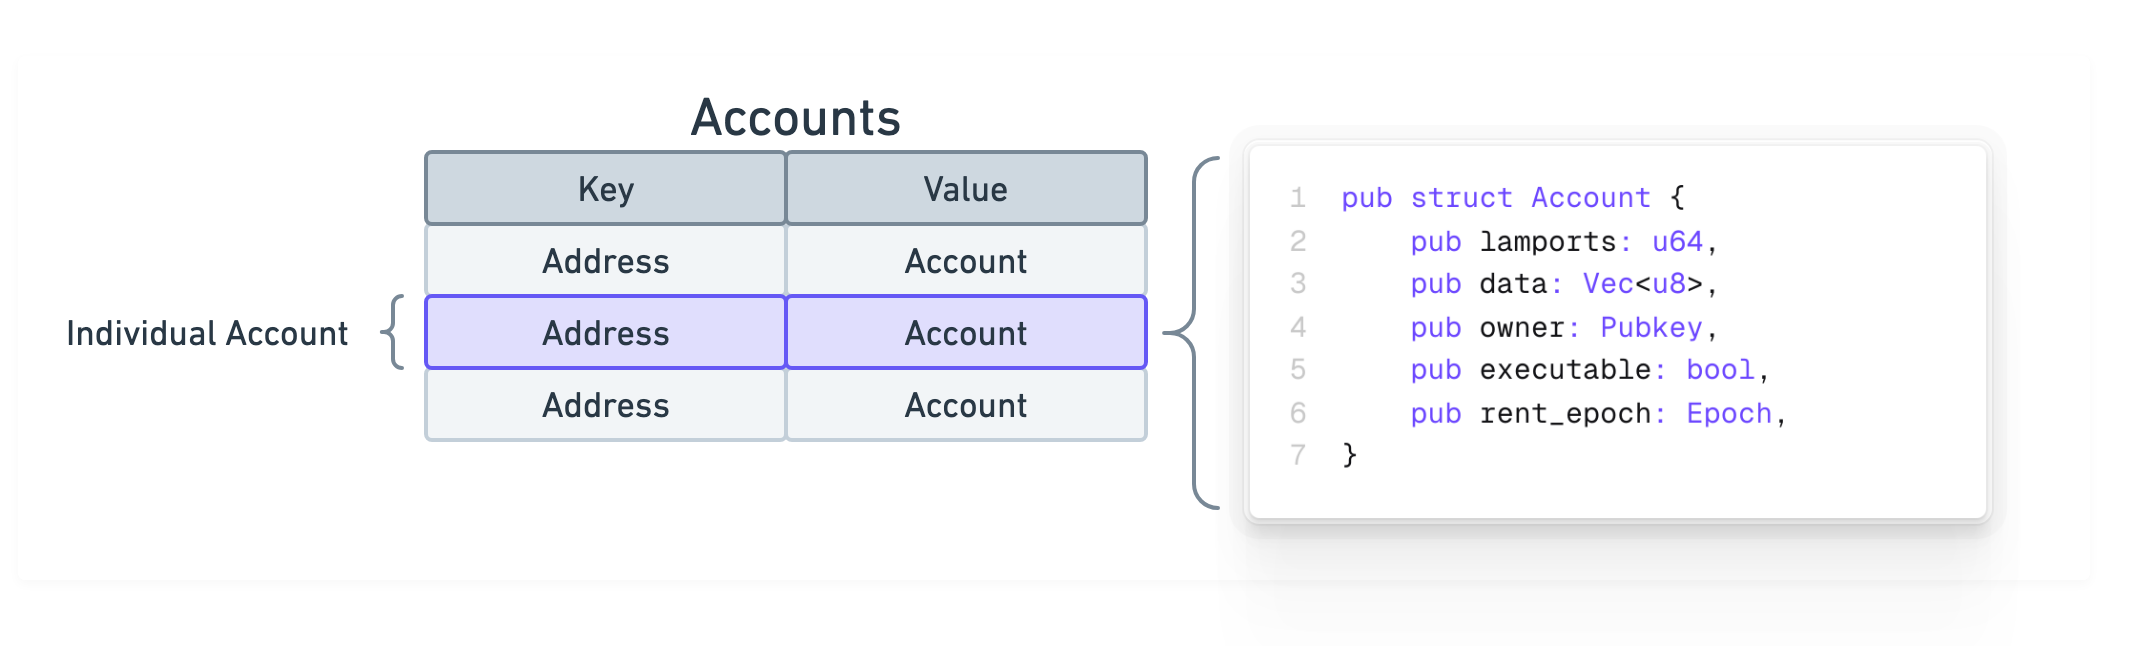
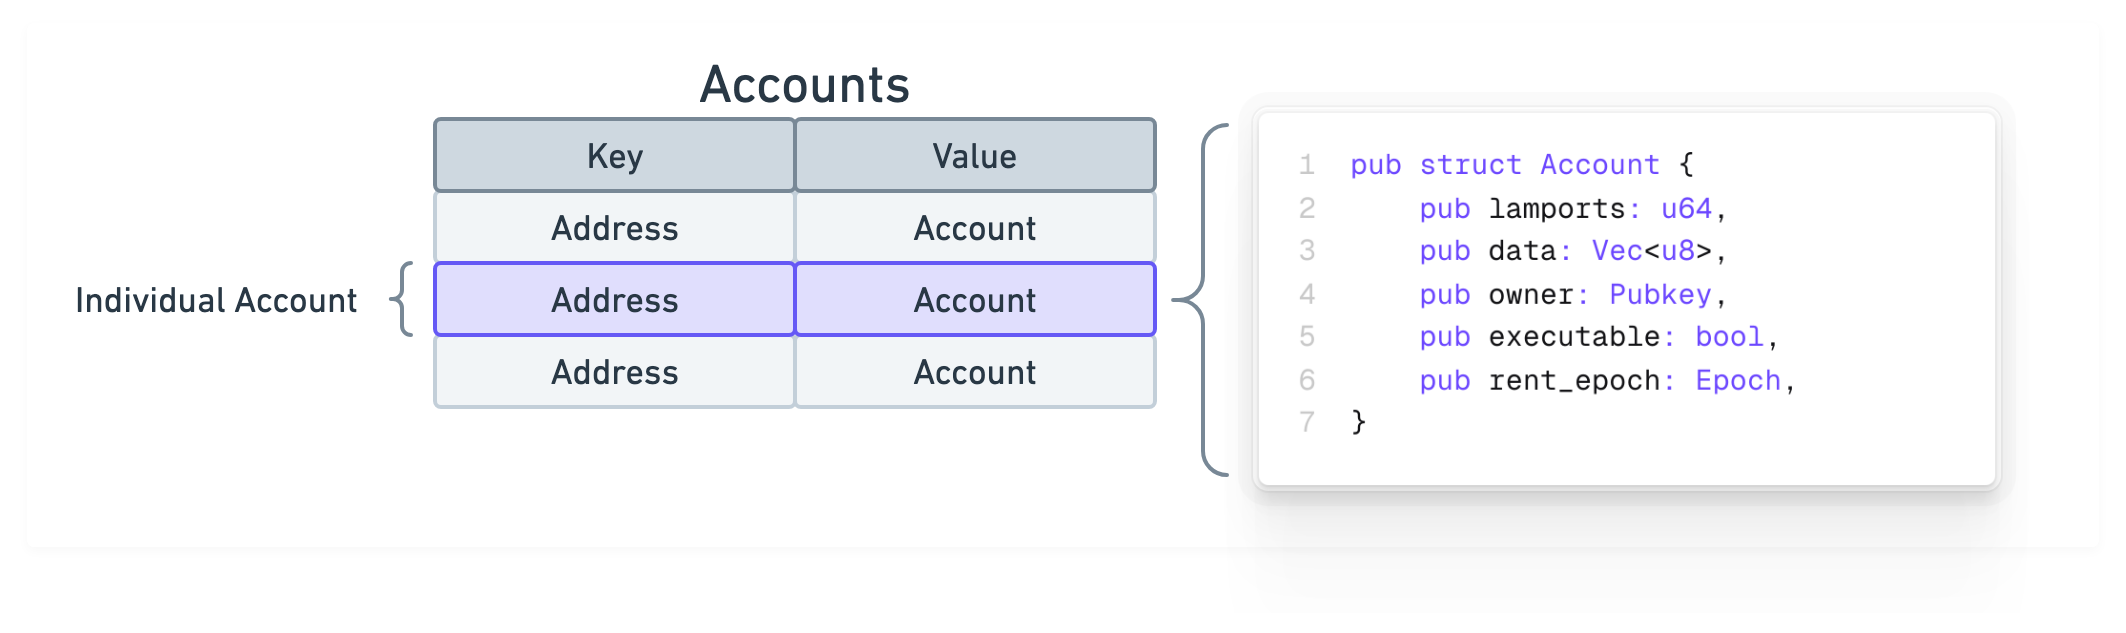
Terminato i settaggi grafici.

Changed region(s): [[0.031, 0.1201, 0.9313, 0.7804], [0.6209, 0.6603, 0.6519, 0.6904]]

diff --git a/style.css b/style.css
@@ -1,19 +1,79 @@
 /* style.css */
 
 #content-container {
-  background-image: linear-gradient(rgba(255, 255, 255, 0.6), rgba(255, 255, 255, 0.6)), linear-gradient(45deg, #9945FF 0%, #763ADF 25%, #0284C7 50%, #0CC894 75%, #14F195 100%) !important;
-  background-attachment: fixed !important; 
-  background-color: transparent !important;
+  background-image: linear-gradient(rgba(255, 255, 255, 0.5), rgba(255, 255, 255, 0.5)), linear-gradient(45deg, #9945FF 0%, #763ADF 25%, #0284C7 50%, #0CC894 75%, #14F195 100%) !important;
+  background-attachment: fixed !important;
 }
 
 html.dark #content-container {
   background-image: linear-gradient(rgba(12, 10, 16, 0.5), rgba(12, 10, 16, 0.5)), linear-gradient(45deg, #9945FF 0%, #763ADF 25%, #0284C7 50%, #0CC894 75%, #14F195 100%) !important;
-  background-attachment: fixed !important; 
+  background-attachment: fixed !important;
+}
+
+/* ==========================================================================
+   Markdown Blockquotes (">") Border Inversion
+   ========================================================================== */
+
+/* Light / White Mode: Black vertical line */
+html:not(.dark) blockquote,
+html:not(.dark) .prose blockquote {
+  border-left-color: rgba(0, 0, 0, 0.75) !important;
+}
+
+/* Dark / Black Mode: White vertical line */
+html.dark blockquote,
+html.dark .prose blockquote {
+  border-left-color: rgba(255, 255, 255, 0.75) !important;
+}
+
+/* Force all nested ordered lists in Mintlify to remain numbers */
+.prose ol > li > ol,
+.prose ol > li > ol > li > ol {
+  list-style-type: decimal !important;
+}
+
+u {
+  text-decoration: none; /* Strips out the default, problematic underline */
+  border-bottom: 1px solid color-mix(in srgb, currentColor 30%, transparent);
+}
+
+/* Ultra-translucent Callout Containers (<Info>, <Note>, <Tip>, <Warning>) */
+html .callout,
+html [data-callout],
+html div[class*="callout"],
+html div[role="alert"] {
+  background-color: rgba(255, 255, 255, 0.1) !important;
+  border-color: rgba(255, 255, 255, 0.2) !important;
+}
+
+/* Outer Code Window: Glassmorphism */
+html .code-block,
+html .code-group {
+  background-color: rgba(255, 255, 255, 0.1) !important;
+  border-color: rgba(255, 255, 255, 0.2) !important;
+}
+
+/* Keep all inner containers 100% background-free */
+html body .code-block :is(div, pre, code, .shiki),
+html body .code-group :is(div, pre, code, .shiki) {
+  background: none !important;
+}
+
+html.dark .code-block code,
+html.dark .code-group code {
+  filter: contrast(150%) saturate(120%) !important;
+  opacity: 1 !important;
 }
 
 footer::after {
-  content: "With 💙 by Z561";
+  content: "With 💜 by Z561";
   display: block;
   font-size: 0.875rem;
   font-weight: 500;
+  color: #9CA3AF;
+}
+
+.dark footer::after {
+  content: "With 💚 by Z561";
+  color: #4B5563;
 }
